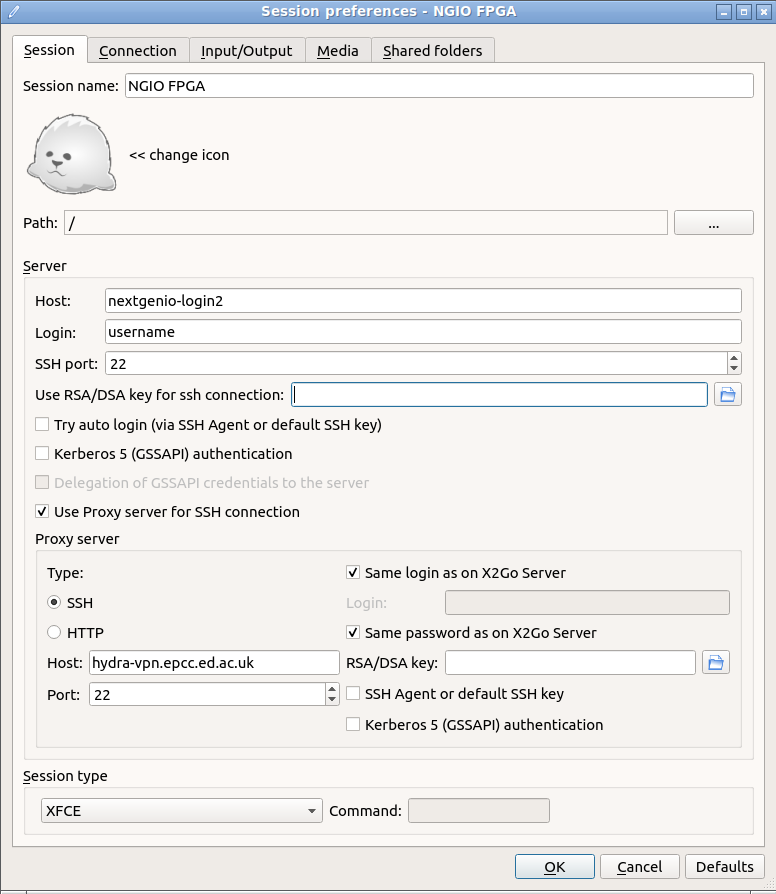
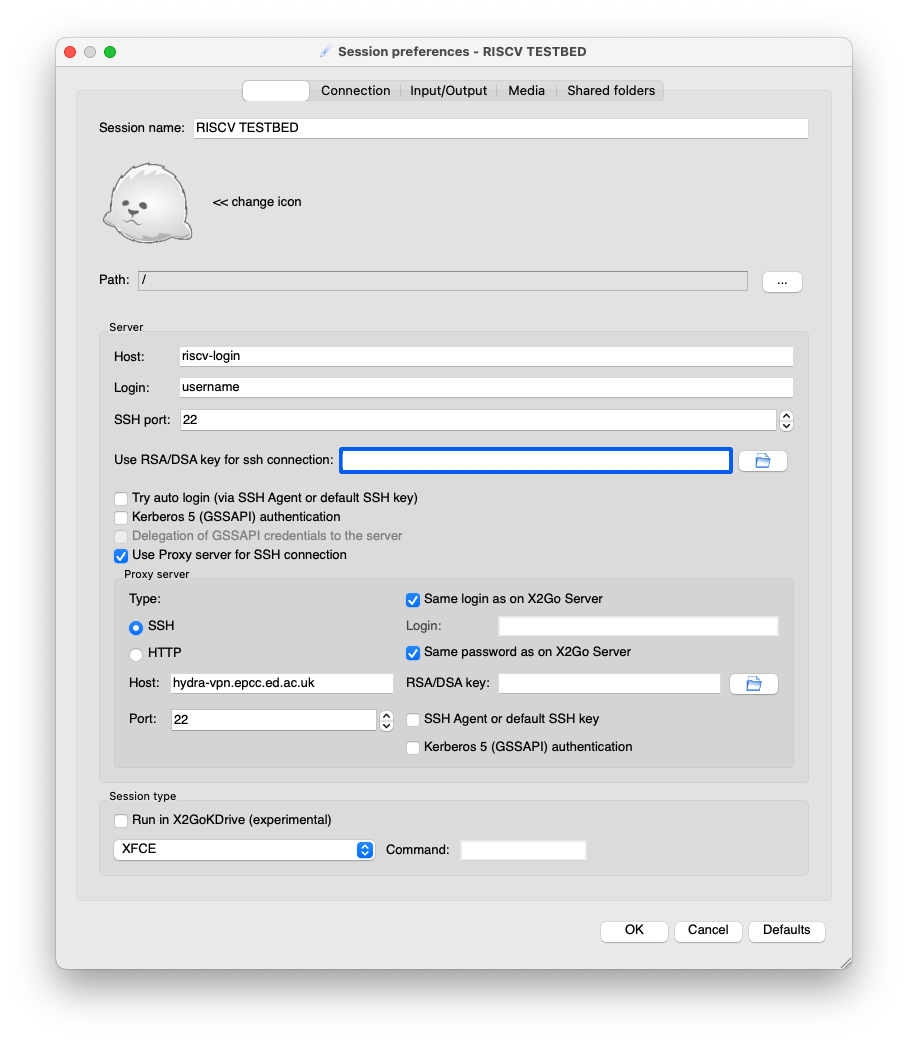
update riscv-login instructions

diff --git a/_documentation/getting_started.md b/_documentation/getting_started.md
@@ -4,18 +4,21 @@ icon: /images/sign-post.png
 icon_alt: Sign post
 ---
 
-This section describes how to access both the command line and GUI of the testbed system. The testbed is part of a larger machine, NEXTGenIO, with testbed users building their codes on a specific front-end node, and then running on the individual RISC-V backend nodes. The front-end node contains two 48-core Cascade Lake Xeon Platinum CPUs, 512GB RAM, and files are stored on the Lustre high performance parallel filesystem which is also visible to the back-end nodes.
+This section describes how to access both the command line and GUI of the testbed system front-end. 
+
+The testbed contains a front-end node _riscv-login_ containing a 26-core Skylake Xeon Platinum CPU with 256GB RAM. The system drive is a 1TB SSD, and files are stored on 4TB of HDD RAID10 storage. Users can build their code on the front-end node, and they can be run on the RISC-V backend nodes (for details on submitting jobs, see [here]({% link _documentation/running_riscv.md %}))
+
 
 ### Command line access
 
-The testbed system is only accessible via the _hydra-vpn_ proxy host, and in the previous _applying for access_ step you will have signed up for accounts on both _hydra-vpn_ and _NEXTGenIO_. To access the testbed you need to therefore first ssh to _hydra-vpn_ via `ssh username@hydra-vpn.epcc.ed.ac.uk` , the first time that you access this you will need to use the password automatically allocated via the SAFE system (it can be retrieved via SAFE) and will be prompted to change this.
+The testbed system is only accessible via the _hydra-vpn_ proxy host, and in the previous _applying for access_ step you will have signed up for accounts on both _hydra-vpn_ and _riscv-login_. To access the testbed you need to therefore first ssh to _hydra-vpn_ via `ssh username@hydra-vpn.epcc.ed.ac.uk` , the first time that you access this you will need to use the password automatically allocated via the SAFE system (it can be retrieved via SAFE) and will be prompted to change this.
 
-Once you have logged into hydra-vpn then you can access the testbed login node via `ssh username@nextgenio-login2` . This is the node  flow is illustrated below.
+Once you have logged into hydra-vpn then you can access the testbed login node via `ssh username@riscv-login` . The workflow is illustrated below.
 
 ```console
 username@localhost:~$ ssh username@hydra-vpn.epcc.ed.ac.uk
-[username@hydra-vpn ~]$ ssh username@nextgenio-login2
-[username@nextgenio-login2 ~]$
+[username@hydra-vpn ~]$ ssh username@riscv-login
+[username@riscv-login ~]$
 ```
 
 >**ADVICE:**  
@@ -23,11 +26,11 @@ username@localhost:~$ ssh username@hydra-vpn.epcc.ed.ac.uk
 
 ### Desktop access
 
-<img src="/images/x2go_settings.png" width="400" height="400" align="right"/>
+<img src="/images/x2go_settings.png" width="450" height="450" align="right"/>
 
 The lightweight XFCE desktop is installed on the front-end of the testbed system, which is especially useful for programming FPGAs as much of the tooling has a graphical component to it. The front-end is also running X2GO which tends to provide much better performance than vanilla X forwarding. Therefore we strongly suggest accessing the desktop via X2GO, with users just needing to install the client program which is available [here](https://wiki.x2go.org/doku.php/download:start).
 
-Once the client is installed, create a new profile with settings matching those as illustrated below (assuming that you use the same username and password for both _hydra-vpn_ and the _NEXTGenIO_ node.
+Once the client is installed, create a new profile with settings matching those as illustrated below (assuming that you use the same username and password for both _hydra-vpn_ and the _riscv-login_ node.
 
 >**NOTE:**  
 > Whilst it is possible to run the individual graphical tools directly via X2GO, we suggest doing this via the XFCE desktop environment as find that this provides a much better user experience.
@@ -38,72 +41,68 @@ RISC-V compilers are available on the module environment:
 
 ```
 bash-4.2$ module avail
-
------------ /home/nx09/shared/riscv/modulefiles -----------
 ...
-gnu-riscv32-linux/12.2    gnu-riscv32-newlib/12.2    gnu-riscv64-linux/9.2-rvv0.7.1    gnu-riscv64-linux/12.2 (D)    gnu-riscv64-newlib/12.2 
+-------------------------- /usr/local/share/riscv-compiler/modulefiles --------------------------
+   riscv32-linux/gnu-12.2       riscv64-linux/gnu-9.2-rvv     riscv64-linux/llvm-15.0
+   riscv32-newlib/gnu-12.2      riscv64-linux/gnu-10.2-rvv    riscv64-newlib/gnu-12.2
+   riscv64-linux/gnu-8.4-rvv    riscv64-linux/gnu-12.2
 ```
 
-The modules correspond to the GCC compilers with the following configurations:
+The modules correspond to the following compiler configurations:
 
-| Module | Library | Bit | ISA | ABI | GCC |
-| --- | --- | --- | --- | --- | --- |
-| `gnu-riscv32-linux/12.2` | glibc (Linux) | 32 | RV32GC | ilp32d | 12.2.0 |
-| `gnu-riscv64-linux/12.2` | glibc (Linux) | 64 | RV64GC | lp64d | 12.2.0 |
-| `gnu-riscv32-newlib/12.2` | Newlib | 32 | RV32GC | ilp32d | 12.2.0 |
-| `gnu-riscv64-newlib/12.2` | Newlib | 64 | RV64GC | lp64d | 12.2.0 |
-| `gnu-riscv64-linux/9.2-rvv0.7.1` | glibc (Linux) | 64 | RV64GC + V (0.7.1) | lp64d | 9.2.0 |
+| Module | Compiler | Version | Library | Bit | ISA | ABI | Source |
+| --- | --- | --- | --- | --- | --- |--- | --- |
+| `riscv64-linux/gnu-12.2` | GNU | 12.2.0 | glibc (Linux) | 32 | RV32GC | ilp32d | [RISC-V GNU Toolchain](https://github.com/riscv-collab/riscv-gnu-toolchain) |
+| `riscv32-linux/gnu-12.2` | GNU | 12.2.0 | glibc (Linux) | 64 | RV64GC | lp64d | [RISC-V GNU Toolchain](https://github.com/riscv-collab/riscv-gnu-toolchain)|
+| `riscv32-newlib/gnu-12.2` | GNU | 12.2.0 | Newlib | 32 | RV32GC | ilp32d | [RISC-V GNU Toolchain](https://github.com/riscv-collab/riscv-gnu-toolchain) |
+| `riscv64-newlib/gnu-12.2` | GNU | 12.2.0 | Newlib | 64 | RV64GC | lp64d | [RISC-V GNU Toolchain](https://github.com/riscv-collab/riscv-gnu-toolchain) |
+| `riscv64-linux/gnu-8.4-rvv` | GNU | 8.4 | glibc (Linux) | 64 | RV64GC + V (0.7.1) | lp64d | [XuanTie GNU Toolchain 20210618]({{ site.url }}/resources/riscv64-linux-x86_64-20210618.tar.gz)  |
+| `riscv64-linux/gnu-9.2-rvv` | GNU | 9.2 | glibc (Linux) | 64 | RV64GC + V (0.7.1) | lp64d | [RISC-V GNU Toolchain: rvv-0.7.1](https://github.com/brucehoult/riscv-gnu-toolchain/tree/rvv-0.7.1) |
+| `riscv64-linux/gnu-10.2-rvv` | GNU | 10.2 | glibc (Linux) | 64 | RV64GC + V (0.7.1/1.0) | lp64d | [XuanTie GNU Toolchain V2.6.1 20220906]({{ site.url }}/resources/Xuantie-900-gcc-linux-5.10.4-glibc-x86_64-V2.6.1-20220906.tar.gz) |
+| `riscv64-linux/llvm-15.0` | LLVM | 15.0 | glibc (Linux) | 64 | RV64GC + V (1.0) | lp64d | [LLVM](https://github.com/riscv-collab/riscv-gnu-toolchain/pull/1166) |
 
-Once a compiler module (e.g.`gnu-riscv64-linux/12.2` ) is loaded, the compilers and associated tools can be called with the prefix (e.g. `riscv64-unknown-linux-gnu-`).
 
 
-### Spack
-RISC-V compilers and libraries are available on the front-end either via the [Spack](spack.readthedocs.io/) or the module environment.
+Once a compiler module (e.g.`riscv64-linux/gnu-12.2`/`riscv64-linux/llvm-15.0` ) is loaded (via `module load ...`), the compilers and associated tools can be called with the prefix (e.g. `riscv64-unknown-linux-gnu-` for GNU / `clang` for LLVM). 
 
-The easiest way to access the RISC-V libraries via a Spack environment, which can be loaded using the following environment script:
+For details of what's included in the toolchains, see [Toolchains & Cross-debugging]({% link _posts/issues/2023-01-11-toolchains+debugging.md %}). For more instructions on compiling with the V vector extension, see [V vector extension]({% link _posts/issues/2022-11-23-compiling-vector.md %}).
+
+
+
+### Libraries
+
+RISC-V libraries are also available in the module environment. 
 
 ```console
-[username@nextgenio-login2 ~]$ source /home/nx09/shared/riscv/riscv64_env.sh
-[username@nextgenio-login2 ~][risc64-env]$ spack compiler
-==> Available compilers
+bash-4.2$ module avail
 ...
----------- gcc unknown-linux-riscv64 ----------
-gcc@12.2.0
+---------------------- /usr/local/share/riscv-software/modulefiles ----------------------
+   fftw/3.3.10_gcc12.2_double/fftw-double
+   fftw/3.3.10_gcc12.2_single/fftw-single
+   hdf5/1.14.0_gcc12.2
+   netcdf/4.x_gcc12.2
+   openblas/0.3.21_C910V_gcc10.2
+   openblas/0.3.21_riscv64_generic_gcc12.2 
+   openmpi/4.1.4_gcc12.2
+   petsc/3.18.4_debug
+   petsc/3.18.4_release                    
 ```
 
-This will load the `riscv64` spack environment, which contains the RISC-V gcc compilers and precompiled libraries.
+To inspect the list of modules set in the user environment, run `module list`. More general details about the module environment can be found [here](https://linux.die.net/man/1/module). 
 
->**ADVICE:**  
-> You can add this command into your _.bashrc_ file which will then make these modules available automatically.
+Note: all libraries are compiled using `riscv64-linux/gnu-12.2`, except for `openblas/0.3.21_C910V_gcc10.2` which has been compiled using [XuanTie GNU Toolchain V2.6.0 20220715]({{ site.url }}/resources/Xuantie-900-gcc-linux-5.10.4-glibc-x86_64-V2.6.0-20220715.tar.gz)
 
-The list of installed Spack libraries can be viewed via
+### Compiling with MPI
+
+To use the OpenMPI compiler wrappers (e.g. `mpicc`) on _riscv-login_, first load the `openmpi/4.1.4_gcc12.2` and `riscv64-linux/gnu-12.2` compiler module. Then the wrapper can be used along with the QEMU simulator included in `riscv64-linux/gnu-12.2`, 
 
 ```console
-[username@nextgenio-login2 ~][risc64-env]$ spack find
-==> In environment riscv64
-...
-==> Installed packages
----------- linux-unknown-linux-riscv64 / gcc@12.2.0 -------------
-zlib@1.2.13  ...
-
----------- linux-centos7-skylake_avx512 / gcc@8.3.0 -------------
-berkeley-db@18.1.40                ...
+bash-4.2$ qemu-riscv64 /usr/local/share/riscv-software/openmpi4.1.4_gcc12.2/build/bin/mpicc [helloworld.c]
 ```
 
-Libraries can be installed using `spack install [package][@version][%compiler][compiler flags (e.g. cppflag="-03")][^dependency@version] target=riscv64 os=unknown-linux`, and loaded via `spack load`. More details can be found [here](https://spack.readthedocs.io/en/latest/basic_usage.html).
-
-### Modules
-
-Alternatively, the compilers and packages installed in Spack can also be loaded via the module environment. Once the riscv64 Spack environment is activated using the script above, the available modules can be viewed via `module avail` and loaded via `module load [module]`.
-
-```console
-[username@nextgenio-login2 ~]$ source /home/nx09/shared/riscv/riscv64_env.sh
-[username@nextgenio-login2 ~][risc64-env]$ module available
--- /lustre/home/nx09/shared/riscv/spack/share/spack/modules/linux-centos7-skylake_avx512 --
-   berkeley-db-18.1.40-gcc-8.3.0-saop5y7                    ...
-
----------------------------- /home/nx09/shared/riscv/modulefiles -----------------------------
-   gnu-riscv64-linux/12.2
+If you prefer to link the OpenMPI libraries manually, they can be found in
 ```
-
-To inspect the list of modules set in the user environment, run `module list`. More general details about the module environment can be found [here](https://linux.die.net/man/1/module).
+MPdir        = /usr/local/share/riscv-software/openmpi4.1.4_gcc12.2/build
+MPinc        = -I$(MPdir)/include
+MPlib        = $(MPdir)/lib/libmpi.a $(MPdir)/lib/libompitrace.a $(MPdir)/lib/libopen-rte.a  $(MPdir)/lib/libopen-pal.a -ldl
+```

diff --git a/_posts/issues/2023-01-11-toolchains+debugging.md b/_posts/issues/2023-01-11-toolchains+debugging.md
@@ -13,12 +13,11 @@ In this post we cover the toolchains and debugging tools available to compile ap
 
 The first toolchain is the RISC-V GNU Compuler Toolchain, which is available at <https://github.com/riscv-collab/riscv-gnu-toolchain>. The README provides comprehensive instructions to compile the toolchain. 
 
-Different versions of this toolchain have already been installed on the login node and can be directly be loaded using `module load` or `spack load`, following the instructions [here]({% link _documentation/getting_started.md %}). Once loaded, the compilers and binutils can be called directly, e.g.
+Different versions of this toolchain have already been installed on the login node and can be directly be loaded using `module load`, following the instructions [here]({% link _documentation/getting_started.md %}). Once loaded, the compilers and binutils can be called directly, e.g.
 
 ```
-[username@nextgenio-login2 ~]$ source /home/nx09/shared/riscv/riscv64_env.sh
-[username@nextgenio-login2 ~]$ module load gnu-riscv64-linux/12.2
-[username@nextgenio-login2 ~]$ riscv64-unknown-linux-gnu-gcc --version
+[username@riscv-login ~]$ module load riscv64-linux/gnu-12.2
+[username@riscv-login ~]$ riscv64-unknown-linux-gnu-gcc --version
 riscv64-unknown-linux-gnu-gcc (g) 12.2.0
 Copyright (C) 2022 Free Software Foundation, Inc.
 This is free software; see the source for copying conditions.  There is NO
@@ -26,7 +25,6 @@ warranty; not even for MERCHANTABILITY or FITNESS FOR A PARTICULAR PURPOSE.
 ```
 
 Notes:
-- On nextgenio, users can run `module load mpc mpfr gmp` to include the libraries needed to compile the toolchain, and run `module load gnu8; spack load cmake gmake` to use up-to-date versions of the gcc compiler and make/cmake. (The default gcc and make/cmake are too old to build the toolchain)
 - The toolchain can be compiled with two C standard libraries: GNU C Library (glibc) and Newlib. Newlib provides ISO C, is focused on size and is intended for embedded systems. On top of ISO C, glibc also provides other APIs including POSIX, BSD, XPG, making it more suitable for linux applications. Toolchains for both newlib and glibc in 32/64-bit are provided and can be loaded directly.
 - The binaries have the prefix `riscv(32/64)-unknown-(elf/linux-gnu)-` for (32/64)-bit and (newlib/glibc) respectively
 - When using the gnu compiler, the isa can be specified by `-march=ISA-string`, e.g. `-march=rv64gc`. For more options, see <https://gcc.gnu.org/onlinedocs/gcc/RISC-V-Options.html>
@@ -36,10 +34,12 @@ Notes:
 The toolchain also includes a simulator (e.g. QEMU), which allows us to run RISC-V binaries on the host. To build the simulator, after configuring and building the gnu toolchain, additionally run `$ make build-sim SIM=qemu`. To use the simulator, just run `$ qemu-riscv64 (application)`.
 
 Note:
-- To build on nextgenio where the default compilers are too old, modify `Makefile.in` under `build-qemu` and add the following flags to `configure`:
+
+- This has also been installed in the module `riscv64-linux/gnu-12.2` on _riscv-login_
+- If the default compilers are too old, modify `Makefile.in` under `build-qemu` and add the following flags to `configure`:
 ```
-  --cc=/opt/ohpc/pub/compiler/gcc/8.3.0/bin/gcc \
-  --cxx=/opt/ohpc/pub/compiler/gcc/8.3.0/bin/g++
+  --cc=[c compiler] \
+  --cxx=[c++ compiler]
 ```
 
 ### LLVM toolchain
@@ -64,16 +64,15 @@ $ make
 ```
 The LLVM binaries will be built in the same location in `$prefix`.
 
-If building on nextgenio, see note below.
 
 Notes:
 - The LLVM project can currently be built only with glibc
 - LLVM RISC-V reference: <https://llvm.org/docs//RISCVUsage.html>
-- When configuring LLVM build, by default the C compiler uses /usr/bin/cc and CXX compiler uses /usr/bin/c++ . To build on nextgenio where the default compilers are too old, modify `Makefile.in` under `build-llvm-linux` and add the following flags to `cmake`:
+- When configuring LLVM build, by default the C compiler uses /usr/bin/cc and CXX compiler uses /usr/bin/c++ . If the default compilers are too old, modify `Makefile.in` under `build-llvm-linux` and add the following flags to `cmake`:
 
 ```
--DCMAKE_C_COMPILER="/opt/ohpc/pub/compiler/gcc/8.3.0/bin/gcc" \
--DCMAKE_CXX_COMPILER="/opt/ohpc/pub/compiler/gcc/8.3.0/bin/g++" \
+-DCMAKE_C_COMPILER="[c compiler]" \
+-DCMAKE_CXX_COMPILER="[c++ compiler]" \
 ```
 
 ### Vector
@@ -82,7 +81,7 @@ The upstream LLVM Compiler (clang) by default supports the vector extension and 
 
 Notes:
 
-- To enable vectorization in clang, add the flags `-march=rv64gcv  -menable-experimental-extensions -O2 -mllvm --riscv-v-vector-bits-min=128 -g -static`
+- To enable vectorization in clang, add the flags `-march=rv64gcv  -menable-experimental-extensions -O2 -mllvm --riscv-v-vector-bits-min=128` or `-march=rv64gcv  -menable-experimental-extensions -O2 -mllvm -scalable-vectorization=on`
 - To enable vectorization in gcc, add the flags `--with-arch=rv64gcv --O3`
 - For more information, see the [Compiling Vector Code]({% link _posts/issues/2022-11-23-compiling-vector.md %}) page
 

diff --git a/_posts/issues/2022-11-23-compiling-vector.md b/_posts/issues/2022-11-23-compiling-vector.md
@@ -12,17 +12,17 @@ Some of the [hardware]({% link _documentation/hardware.md %}) (e.g. Allwinner D1
 A major caveat is that the first ratified RVV is version 1.0 ([spec](https://github.com/riscv/riscv-v-spec/blob/3570f998903f00352552b670f1f7b7334f0a144a/v-spec.adoc)), whereas the C906 core in the Allwinner D1 SoC was designed to support RVV 0.7.1 ([spec](https://github.com/riscv/riscv-v-spec/blob/0a24d0f61b5cd3f1f9265e8c40ab211daa865ede/v-spec.adoc)). The two specs are similar but not compatible. For more information, see [1](https://www.reddit.com/r/RISCV/comments/v1dvww/allwinner_d1_extensions/) [2](https://github.com/riscv/riscv-v-spec/issues/667).
 
 
-On NextgenIO, The modules `gnu-riscv64-linux/9.2-rvv0.7.1` and `gnu-riscv64-linux/8.4-rvv0.7.1` (see [Getting Started]({% link _documentation/getting_started.md %})) can be loaded for gnu compilers supporting RVV 0.7.1.
+On riscv-login, The modules `riscv64-linux/gnu-8.4-rvv`, `riscv64-linux/gnu-9.2-rvv`, and `riscv64-linux/gnu-10.2-rvv` (see [Getting Started]({% link _documentation/getting_started.md %})) can be loaded for gnu compilers supporting RVV 0.7.1.
 
 ### RVV 0.7.1
 The simplest way to work with RVV 0.7.1 is in assembly language. The spec provides some [examples](https://github.com/riscv/riscv-v-spec/blob/0a24d0f61b5cd3f1f9265e8c40ab211daa865ede/vector-examples.adoc) of how to do so. Tests of memcpy and strcpy speeds on Allwinner D1 hardware using RVV 0.7.1 have been recorded [here](https://www.eevblog.com/forum/embedded-computing/risc-v-vector-extension-on-the-allwinner-d1/). 
 
 
 Notes:
-- Include `-march=...v` (e.g. `-march=rv64gcv` to include vector extension) 
+- Include `-march=...v` (e.g. `-march=rv64gcv` to include vector extension; to specify the version `-march=rv64gcv0p7` or `-march=rv64gcv1p0`) 
 - QEMU supports RVV 0.7.1
-- C906 toolchain (can be loaded via `gnu-riscv64-linux/8.4-rvv0.7.1`) and RVV 0.7.1 intrinsic manual: <https://occ-oss-prod.oss-cn-hangzhou.aliyuncs.com/resource/1836682/1624260655742/riscv64-linux-x86_64-20210618.tar.gz> <https://lists.riscv.org/g/tech-vector-ext/message/677>
-- The toolchain `gnu-riscv64-linux/8.4-rvv0.7.1` supports intrinsics (see example) and auto-vectorization (add `-march=rv64gcv -O3`)
+- C906 toolchain (can be loaded via `riscv64-linux/gnu-8.4-rvv`) and RVV 0.7.1 intrinsic manual: <https://occ-oss-prod.oss-cn-hangzhou.aliyuncs.com/resource/1836682/1624260655742/riscv64-linux-x86_64-20210618.tar.gz> <https://lists.riscv.org/g/tech-vector-ext/message/677>
+- The toolchain `riscv64-linux/gnu-8.4-rvv` supports intrinsics (see example) and auto-vectorization (add `-march=rv64gcv -O3`)
 - OpenBLAS optimized for RVV 0.7.1: <https://github.com/xianyi/OpenBLAS/tree/risc-v>
 
 Intrinsics example:
@@ -54,7 +54,7 @@ Notes:
 - To use the Gnu `rvv-next` branch toolchain, also pull the `riscv-gcc-rvv-next` branch in `riscv-gcc`
 - Instructions to build LLVM toolchain: <https://github.com/riscv-collab/riscv-gnu-toolchain/pull/1166> or <https://github.com/sifive/riscv-llvm>
 - To enable auto-vectorization in gnu toolchain (`rvv-next`), configure with `--with-arch=rv64gcv` and compile with `-ftree-vectorize` or `-O3` (see [1](https://github.com/riscv-collab/riscv-gcc/issues/353) [2](https://github.com/riscv-collab/riscv-gnu-toolchain/issues/1055#issuecomment-1145980351))
-- To enable auto-vectorization in clang, add the following flags `-march=rv64gv -target riscv64 -O2 -mllvm --riscv-v-vector-bits-min=xxx` (`xxx = 256/...` )
+- To enable auto-vectorization in clang, add the following flags `-march=rv64gv -target riscv64 -O2 -mllvm --riscv-v-vector-bits-min=xxx` (e.g. `xxx = 128` ) for vector length specific, and `-march=rv64gv -target riscv64 -O2 -mllvm -scalable-vectorization=on` for vector length agnostic
 - Intrinsics and Auto-Vectorization (with Clang) can be tested on Compiler Explorer
 - To view details for auto-vectorization by the compilers, add `-fopt-info-vec-all` for gcc  or `-Rpass=loop-vectorize -Rpass-missed=loop-vectorize -Rpass-analysis=loop-vectorize` for clang. (See <https://gcc.gnu.org/onlinedocs/gcc/Developer-Options.html#index-fopt-info-1337> and <https://llvm.org/docs/Vectorizers.html>)
 - Talk at RISC-V Summit: [Getting the Most out of the LLVM Auto Vectorizer for RISC-V Vectors (RVV) - Kolya Panchenko, SiFive](https://www.youtube.com/watch?v=PEjXUBXNvuk)

diff --git a/_documentation/access.md b/_documentation/access.md
@@ -14,6 +14,4 @@ RISC-V testbed for (e.g. what codes you are interested in accelerating). There a
 
 # Step two, apply for access via SAFE
 
-You should only do this step after receiving a reply from the previous step. The machine is managed by SAFE, and to request an account you should visit [https://safe.epcc.ed.ac.uk/](https://safe.epcc.ed.ac.uk/) and sign up. This is a two stage process, you first sign up for a web account, and once that is created go into SAFE and click Login accounts and Request login account. Enter the project code nx09 and request an account on hydra-vpn. You should then repeat this process requesting an account on NextgenIO , the usernames you select for both these machines can be the same.
-
-Once you have applied for an account it typically takes a few hours for it to be created and you will be emailed with further details.
+You should only do this step after receiving a reply from the previous step. The machine is managed by SAFE, and to request an account you should visit [https://safe.epcc.ed.ac.uk/](https://safe.epcc.ed.ac.uk/) and sign up. This is a two stage process, you first sign up for a web account, and once that is created go into SAFE and click Login accounts and Request login account. Enter the project code `nx09` and request an account on `hydra-vpn`. Once you have applied for an account it typically takes a few hours for it to be created, and you will be emailed with further details. Once approved, you will also be provided with a login account to `riscv-login`.

diff --git a/_documentation/running_riscv.md b/_documentation/running_riscv.md
@@ -27,3 +27,33 @@ You must first `ssh` to the `riscv-login` server where you will compile your cod
 | StarFive VisionFive V1 #2 | rvc08 | 2 | 8GB | up |
 | HiFive Unmatched  | rvc09 | 4 | 16GB | up |
 
+### Submitting jobs
+
+To submit a job to the RISC-V nodes, you can use the slurm command `sbatch [batch.sh]` to submit the script `batch.sh`. To specify which nodes to use, the flag `#SBATCH --nodelist=<names>` can be used.
+
+Here we provide example slurm scripts which run a non-MPI and MPI executable:
+
+Non-MPI `batch.sh`
+```console
+#!/bin/bash
+#SBATCH -A username
+#SBATCH -n 1
+#SBATCH --nodelist=rvc05
+#SBATCH --time=00:15:00
+
+./executable
+```
+
+
+
+MPI `batch-mpi.sh`
+```console
+#!/bin/bash
+#SBATCH -A username
+#SBATCH -n 2
+#SBATCH --nodelist=rvc05,rvc06
+#SBATCH --time=00:15:00
+
+mpirun ./mpi-executable
+```
+
